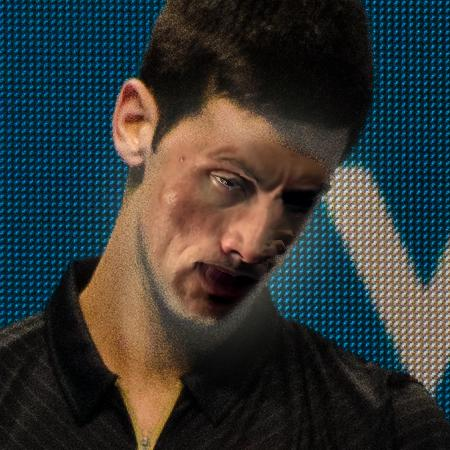
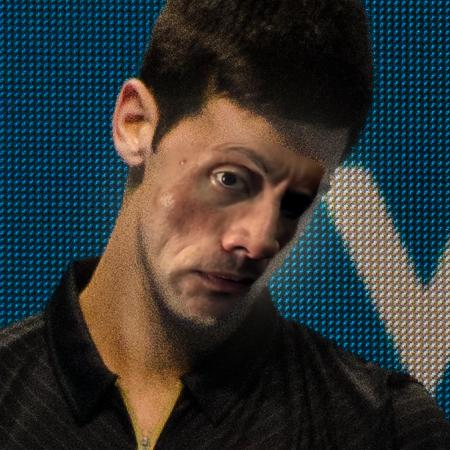
proj2: stretch the Rock's face with one affine fit instead of morphing
A single least-squares affine transform keeps the Rock's features intact.

Changed region(s): [[0.3111, 0.3111, 0.7467, 0.7778], [0.3422, 0.5289, 0.4044, 0.5911], [0.3422, 0.4356, 0.3733, 0.4667]]

diff --git a/docs/proj2/index.html b/docs/proj2/index.html
@@ -17,7 +17,6 @@
   <main>
     <p class="eyebrow">Kevin Chu · Fall 2026</p>
     <h1>Fun with Filters and Frequencies</h1>
-    <p class="lede">Every photo is a mix of two kinds of information: slow changes, like lighting and big shapes, and fast changes, like edges and texture. This whole project is about pulling those two apart and putting them back together in new ways. That gets me edge detection, sharpening, images that change when you step back, and seamless photo blends. I also play a lot of tennis, so Djokovic makes an appearance in the blending section.</p>
 
     <nav class="contents" aria-label="Project sections">
       <a href="#part-1-1">1.1 Convolution</a><a href="#part-1-2">1.2 Edges</a>
@@ -34,32 +33,82 @@
         <p>I wrote it twice. The first version uses four loops: two to visit every output pixel, and two more to walk over the filter. The second version drops the inner two loops and lets NumPy multiply the whole patch at once.</p>
       </div>
       <div class="code-grid">
-        <div><h3>Four loops</h3><pre><code><span class="tok-keyword">for</span> i <span class="tok-keyword">in</span> <span class="tok-fn">range</span>(output_h):
-    <span class="tok-keyword">for</span> j <span class="tok-keyword">in</span> <span class="tok-fn">range</span>(output_w):
-        <span class="tok-keyword">for</span> fi <span class="tok-keyword">in</span> <span class="tok-fn">range</span>(fh):
-            <span class="tok-keyword">for</span> fj <span class="tok-keyword">in</span> <span class="tok-fn">range</span>(fw):
-                output[i, j] += (
-                    padded[i + fi, j + fj]
-                    * <span class="tok-var">flipped</span>[fi, fj]
-                )</code></pre></div>
-        <div><h3>Two loops</h3><pre><code><span class="tok-keyword">for</span> i <span class="tok-keyword">in</span> <span class="tok-fn">range</span>(output_h):
-    <span class="tok-keyword">for</span> j <span class="tok-keyword">in</span> <span class="tok-fn">range</span>(output_w):
-        patch = padded[i:i+fh, j:j+fw]
-        output[i, j] = <span class="tok-fn">np.sum</span>(
-            patch * <span class="tok-var">flipped</span>
-        )</code></pre></div>
+        <div><h3>Four loops</h3><pre><code>def convolve_four_loops(image, filter, mode='same'):
+    flipped_filter = np.flip(np.flip(filter, axis=0), axis=1)
+    image_h, image_w = image.shape
+    fh, fw = flipped_filter.shape
+
+    if mode == 'same':
+        pad_top = fh // 2
+        pad_bottom = (fh - 1) // 2
+        pad_left = fw // 2
+        pad_right = (fw - 1) // 2
+
+    elif mode == 'full':
+        pad_top = pad_bottom = fh - 1
+        pad_left = pad_right = fw - 1
+
+    else:
+        raise ValueError("mode must be 'same' or 'full'")
+
+    padded = np.pad(
+        image,
+        ((pad_top, pad_bottom), (pad_left, pad_right)),
+        mode='constant'
+    )
+
+    output_h = padded.shape[0] - (fh - 1)
+    output_w = padded.shape[1] - (fw - 1)
+    output = np.zeros((output_h, output_w))
+
+    for i in range(output_h):
+        for j in range(output_w):
+            for fi in range(fh):
+                for fj in range(fw):
+                    output[i, j] += (
+                        padded[i + fi, j + fj]
+                        * flipped_filter[fi, fj]
+                    )
+
+    return output</code></pre></div>
+        <div><h3>Two loops</h3><pre><code>def convolve_two_loops(image, filter, mode = 'same'):
+    flipped_filter = np.flip(np.flip(filter, axis=0), axis=1)
+    image_h, image_w = image.shape
+    fh, fw = flipped_filter.shape
+
+    if mode == 'same':
+        pad_top = fh // 2
+        pad_bottom = (fh - 1) // 2
+        pad_left = fw // 2
+        pad_right = (fw - 1) // 2
+
+    elif mode == 'full':
+        pad_top = pad_bottom = fh - 1
+        pad_left = pad_right = fw - 1
+
+    else:
+        raise ValueError("mode must be 'same' or 'full'")
+
+    padded = np.pad(
+        image,
+        ((pad_top, pad_bottom), (pad_left, pad_right)),
+        mode='constant'
+    )
+
+    output_h = padded.shape[0] - (fh - 1)
+    output_w = padded.shape[1] - (fw - 1)
+    output = np.zeros((output_h, output_w))
+
+    for i in range(output_h):
+        for j in range(output_w):
+            patch = padded[i:i+fh, j:j+fw]
+            output[i, j] = np.sum(patch * flipped_filter)
+
+    return output</code></pre></div>
       </div>
       <h3>What happens at the border?</h3>
       <div class="prose">
         <p>Pixels near the edge don't have a full neighborhood, so I pad the image with zeros before sliding the filter. There are two common choices. <code>same</code> pads just enough that the output is the same size as the input. <code>full</code> pads more, so the output keeps every position where the filter overlaps the image at all. With a 9 × 9 filter, that makes it 8 pixels bigger in each direction. Zero padding also darkens the border a little, because the average there includes black pixels that aren't really in the photo.</p>
-        <pre><code><span class="tok-var">flipped</span> = <span class="tok-fn">np.flip</span>(<span class="tok-fn">np.flip</span>(filter, axis=<span class="tok-num">0</span>), axis=<span class="tok-num">1</span>)
-<span class="tok-keyword">if</span> mode == 'same':
-    pad_top, pad_bottom = fh // <span class="tok-num">2</span>, (fh - <span class="tok-num">1</span>) // <span class="tok-num">2</span>
-    pad_left, pad_right = fw // <span class="tok-num">2</span>, (fw - <span class="tok-num">1</span>) // <span class="tok-num">2</span>
-<span class="tok-keyword">elif</span> mode == 'full':
-    pad_top = pad_bottom = fh - <span class="tok-num">1</span>
-    pad_left = pad_right = fw - <span class="tok-num">1</span>
-padded = <span class="tok-fn">np.pad</span>(image, ((pad_top, pad_bottom), (pad_left, pad_right)))</code></pre>
       </div>
       <h3>How fast is it?</h3>
       <div class="prose">
@@ -75,7 +124,7 @@ padded = <span class="tok-fn">np.pad</span>(image, ((pad_top, pad_bottom), (pad_
           </tbody>
         </table>
       </div>
-      <p class="intro">Letting NumPy handle the inner loops helps a lot. SciPy is faster still because its loops run in compiled code instead of Python.</p>
+      <p class="intro">Letting NumPy handle the inner loops helps a lot. SciPy is faster still.</p>
       <h3>Trying it on a photo of me</h3>
       <p class="intro">I ran three filters on a grayscale photo of myself. The box filter is a 9 × 9 grid of 1/81, so every pixel becomes the average of its neighborhood, which blurs. The difference filters, D<sub>x</sub> = [1, 0, −1] and its vertical version D<sub>y</sub>, subtract neighboring pixels. They stay near gray where nothing changes and light up at edges.</p>
       <div class="gallery four">
@@ -143,7 +192,8 @@ padded = <span class="tok-fn">np.pad</span>(image, ((pad_top, pad_bottom), (pad_
         <figure><img src="assets/dog_gradient.jpg" alt="Gradient magnitude with DoG filters" /><figcaption><b>DoG gradient magnitude</b></figcaption></figure>
         <figure><img src="assets/dog_edges.png" alt="Edges with DoG filters" /><figcaption><b>DoG edges</b><span>Identical to "blur first", pixel for pixel</span></figcaption></figure>
       </div>
-      <p class="intro">Same result with one convolution per direction instead of two. That's the whole point of the shortcut.</p>
+      <p class="intro">Same result with one convolution per direction instead of two. This helps save computation.</p>
+      <p class="intro">I checked the unnormalized gradient magnitudes numerically: the largest difference was 1.16 × 10<sup>−15</sup>, and the binary edge maps differed at zero pixels. Both methods use the same symmetric padding and crop back to the original image size, so the comparison also agrees at the boundaries.</p>
     </section>
 
     <!-- ===================== 2.1 ===================== -->
@@ -171,20 +221,36 @@ padded = <span class="tok-fn">np.pad</span>(image, ((pad_top, pad_bottom), (pad_
         <figure class="pick"><img src="assets/taj_sharpened_alpha_1.5.jpg" alt="Taj sharpened with alpha 1.5" /><figcaption><b>α = 1.5 (my pick)</b><span>Crisp, still natural</span></figcaption></figure>
         <figure><img src="assets/taj_sharpened_alpha_3.jpg" alt="Taj sharpened with alpha 3" /><figcaption><b>α = 3</b><span>Halos around the dome</span></figcaption></figure>
       </div>
-      <h3>Can sharpening undo a blur?</h3>
-      <p class="intro">To test this, I took the sharp original, blurred it on purpose, and then sharpened the blurry version. The edges get some of their contrast back, but the fine carving doesn't return. Once a blur averages detail away, that information is gone, and sharpening can only boost what's left.</p>
+      <h3 id="blur-recovery">Can sharpening undo a blur?</h3>
+      <p class="intro">The examples above sharpen the original photo. This is a different test: first I deliberately blur the input, then I apply the unsharp mask to that blurred image. If B = G ∗ I, the result is B + 1.5 · (B − G ∗ B). The original I is kept only for comparison; its detail is never added back into the result. Both Gaussian filters use a 9 × 9 kernel with σ = 2.</p>
       <div class="gallery three">
         <figure><img src="assets/taj_original.jpg" alt="Sharp original Taj" /><figcaption><b>Sharp original</b></figcaption></figure>
         <figure><img src="assets/taj_blurred.jpg" alt="Blurred Taj" /><figcaption><b>Blurred on purpose</b></figcaption></figure>
         <figure><img src="assets/taj_blurred_then_resharpened.jpg" alt="Blurred then sharpened Taj" /><figcaption><b>Then sharpened</b><span>Better than the blurry one, but still softer than the original</span></figcaption></figure>
       </div>
-      <h3>My own example: the Moon</h3>
-      <p class="intro">This full-Moon photo was a little soft, which makes it a good candidate. Sharpening at α = 1.5 brings out the craters and the bright streaks around them. The difference is easier to see up close, so the bottom row is a crop from the middle of the Moon.</p>
+      <p class="intro">The Taj's edges regain contrast, but the small carvings remain softer than in the original. The forest below repeats the same experiment with finer texture. Follow the thin branches and the leaves on the path across the three images: blurring merges nearby details, and sharpening strengthens the remaining edges without separating all those details again.</p>
+      <div class="gallery three">
+        <figure><img src="assets/forest_original.jpg" alt="Original forest path with detailed leaves and tree bark" /><figcaption><b>① Original forest</b><span>Reference detail</span></figcaption></figure>
+        <figure><img src="assets/forest_blurred.jpg" alt="Forest deliberately blurred with a Gaussian" /><figcaption><b>② Blur the original</b><span>9 × 9 Gaussian, σ = 2</span></figcaption></figure>
+        <figure><img src="assets/forest_blurred_then_resharpened.jpg" alt="Previously blurred forest sharpened with an unsharp mask" /><figcaption><b>③ Sharpen the blurred image</b><span>α = 1.5; no original detail added back</span></figcaption></figure>
+      </div>
+      <p class="intro">In both tests, sharper-looking edges are not the same as recovered detail. Unsharp masking boosts the frequencies that remain in the blurred image; it does not invert the blur.</p>
+      <h3 id="moon-sharpening">My own example: the Moon</h3>
+      <p class="intro">For the Moon, I return to sharpening the original photo directly. The blur below supplies the broad light and dark regions. Subtracting it from the original isolates the crater rims and fine surface texture, which I then add back with α = 1.5. Here the blurred image is used to build the detail layer, rather than becoming the input to a recovery experiment.</p>
       <div class="gallery two compare">
         <figure><img src="assets/moon_original.jpg" alt="Original Moon" /><figcaption><b>Before</b></figcaption></figure>
         <figure><img src="assets/moon_sharpened_alpha_1.5.jpg" alt="Sharpened Moon" /><figcaption><b>After</b><span>α = 1.5</span></figcaption></figure>
+      </div>
+      <div class="gallery three steps">
+        <figure><img src="assets/moon_blurred.jpg" alt="Low-frequency Moon from Gaussian smoothing" /><figcaption><b>① Blur the original</b><span>9 × 9 Gaussian, σ = 2</span></figcaption></figure>
+        <figure><img src="assets/moon_high_frequency.jpg" alt="Moon original minus its Gaussian blur" /><figcaption><b>② Original minus blur</b><span>Detail layer; gray represents zero</span></figcaption></figure>
+        <figure><img src="assets/moon_sharpened_alpha_1.5.jpg" alt="Original Moon plus 1.5 times its detail layer" /><figcaption><b>③ Original + 1.5 × detail</b><span>Stronger local contrast</span></figcaption></figure>
+      </div>
+      <p class="intro">These matching crops show how the amount of added detail changes the result. At α = 1.5 the crater rims become more distinct. At α = 3 the same bright and dark edges are amplified further, making the surface look harsher rather than revealing new structures.</p>
+      <div class="gallery three">
         <figure><img src="assets/moon_zoom_original.jpg" alt="Close-up of lunar craters, original" /><figcaption><b>Before (close-up)</b></figcaption></figure>
         <figure><img src="assets/moon_zoom_alpha_1.5.jpg" alt="Close-up of lunar craters, sharpened" /><figcaption><b>After (close-up)</b></figcaption></figure>
+        <figure><img src="assets/moon_zoom_alpha_3.jpg" alt="Same lunar crater crop with stronger sharpening" /><figcaption><b>Stronger sharpening</b><span>α = 3</span></figcaption></figure>
       </div>
     </section>
 
@@ -213,7 +279,7 @@ padded = <span class="tok-fn">np.pad</span>(image, ((pad_top, pad_bottom), (pad_
         <figure><img src="assets/tiger_cat_high_aligned.jpg" alt="Aligned tiger" /><figcaption><b>Tiger</b><span>Cropped</span></figcaption></figure>
         <figure><img src="assets/tiger_cat_low_aligned.jpg" alt="Cat aligned to the tiger" /><figcaption><b>Cat</b><span>Eyes matched to the tiger</span></figcaption></figure>
       </div>
-      <p class="intro"><b>2. Filter them.</b> I keep the tiger's fine detail (original minus a Gaussian blur with σ = 4) and a blurred cat (Gaussian with σ = 10). The σ values set the cutoff. I raised the tiger's cutoff until its stripes, not just its whiskers, came through up close, and raised the cat's blur until the cat's own face stopped showing up close. I also boosted the tiger layer by 1.2× so it wins up close. Then I add the two together.</p>
+      <p class="intro"><b>2. Filter them.</b> I keep the tiger's fine detail (original minus a Gaussian blur with σ = 4) and a blurred cat (Gaussian with σ = 10). A larger σ means a lower frequency cutoff: the blur retains fewer fine details, while subtracting that blur leaves a broader range of detail in the high-pass layer. These settings keep the tiger's stripes as well as its whiskers in the detail layer and suppress the cat's fine facial texture in the blurry layer. I also boost the tiger layer by 1.2× so it is more visible up close. Then I add the two together.</p>
       <div class="gallery three">
         <figure><img src="assets/tiger_cat_high_frequency.jpg" alt="Tiger fine detail layer" /><figcaption><b>Tiger detail</b><span>Gray means zero</span></figcaption></figure>
         <figure><img src="assets/tiger_cat_low_frequency.jpg" alt="Blurred cat" /><figcaption><b>Blurred cat</b></figcaption></figure>
@@ -257,7 +323,7 @@ padded = <span class="tok-fn">np.pad</span>(image, ((pad_top, pad_bottom), (pad_
       </div>
 
       <h3>One that didn't work: frown to smile</h3>
-      <p class="intro">I also tried a face that frowns up close and smiles from far away, using two photos of the same person. It never really switched. The two faces are almost identical except for small changes around the mouth and eyes. Those changes are exactly the fine detail that disappears from far away, so the blurry layer doesn't carry the smile strongly enough. Hybrids need two images whose <em>big shapes</em> are different.</p>
+      <p class="intro">I also tried a face that frowns up close and smiles from far away, using two photos of the same person. With this pair and these filter settings, it never clearly switched. The differences around the mouth and eyes were too subtle in the low-frequency layer to convey the smile from a distance. Expression hybrids can work, but this attempt needed a stronger expression contrast or different alignment and cutoff settings.</p>
       <div class="gallery one">
         <figure><img src="assets/expression_comparison.jpg" alt="Failed frown to smile hybrid with inputs and small views" /><figcaption><b>Frown (detail) + smile (blurry)</b><span>From far away the expression is still ambiguous</span></figcaption></figure>
       </div>
@@ -340,11 +406,11 @@ padded = <span class="tok-fn">np.pad</span>(image, ((pad_top, pad_bottom), (pad_
 
       <h3>Djokovic gives the side-eye</h3>
       <p class="intro">This is a photo of Djokovic checking his racket at the 2014 ATP Finals, blended with the famous meme of the Rock raising one eyebrow. The mask isn't a line. It follows the outline of Djokovic's face.</p>
-      <p class="intro">Lining them up was the hard part. Djokovic is looking down at his racket, and the Rock is looking up and to the side, so no amount of rotating or scaling made the two faces match. There was always a strip of Djokovic's face left over, or the Rock's features landed in the wrong place. So I morphed the Rock's face instead. I found 478 matching points on both faces (eye corners, brows, nose, lips, jawline) with a face-landmark detector, split the face into triangles between those points, and warped each triangle of the Rock's face onto the matching triangle of Djokovic's. The Rock's features end up in the shape and angle of Djokovic's face.</p>
+      <p class="intro">Lining them up was the hard part. Djokovic is looking down and facing the camera more, while the Rock is looking up and turned to the side. Rotating and scaling alone always left a strip of Djokovic's face showing. A full face morph (warping every little triangle of the face separately) lined everything up but made the Rock's face look melted. What worked was one smooth stretch for the whole face. I found 478 matching points on both faces with a face-landmark detector, then fit the single affine transform (rotation, scale, and shear) that moves the Rock's points closest to Djokovic's. The shear squashes and slants the face the way turning and tilting a head does, but it can't bend individual features, so the Rock still looks like the Rock. Points that fit badly, like the jaw on the side the Rock is turned away from, get ignored in the fit.</p>
       <p class="intro">The mask is Djokovic's face outline, shrunk slightly toward the center, with the top of the forehead cut off so the Rock's bald head doesn't paint over Djokovic's hair. The Rock's skin is also paler and lit differently, so before blending I shifted his colors to match the average and spread of Djokovic's skin inside the mask.</p>
       <div class="gallery three">
         <figure><img src="assets/rock_djokovic_image2.jpg" alt="Djokovic checking his racket" /><figcaption><b>Djokovic</b></figcaption></figure>
-        <figure><img src="assets/rock_djokovic_rock.jpg" alt="The Rock raising an eyebrow" /><figcaption><b>The Rock</b><span>Morphed onto Djokovic's face before blending</span></figcaption></figure>
+        <figure><img src="assets/rock_djokovic_rock.jpg" alt="The Rock raising an eyebrow" /><figcaption><b>The Rock</b><span>Stretched onto Djokovic's face before blending</span></figcaption></figure>
         <figure><img src="assets/rock_djokovic_mask.jpg" alt="Face-shaped mask" /><figcaption><b>Mask</b><span>White = the Rock</span></figcaption></figure>
       </div>
       <div class="gallery one compare-single">
@@ -410,6 +476,7 @@ padded = <span class="tok-fn">np.pad</span>(image, ((pad_top, pad_bottom), (pad_
       </div>
     </section>
   </main>
+  <p class="photo-credits">Forest photo: <a href="https://commons.wikimedia.org/wiki/File:Tree_Tunnel_(51536815526).jpg">Tree Tunnel by John Brighenti</a>, <a href="https://creativecommons.org/licenses/by/2.0/">CC BY 2.0</a>. Resized, blurred, and sharpened for the comparison above.</p>
   <footer class="photo-credits">Photos from Wikimedia Commons: <a href="https://commons.wikimedia.org/wiki/File:Portrait_Panthera_tigris_altaica_Leipzig_Zoo_2013.jpg">tiger by Appaloosa</a> (<a href="https://creativecommons.org/licenses/by/3.0/">CC BY 3.0</a>), <a href="https://commons.wikimedia.org/wiki/File:Cat03.jpg">cat by Fir0002</a> (GFDL 1.2), <a href="https://commons.wikimedia.org/wiki/File:Great_Grey_Owl_face.jpg">owl by Lisa Hupp/USFWS</a> and <a href="https://commons.wikimedia.org/wiki/File:Full_Moon_(15984763045).jpg">Moon by NASA Goddard</a> (public domain), <a href="https://commons.wikimedia.org/wiki/File:Red_rose_with_black_background_II.jpg">rose by Laitche</a> (<a href="https://creativecommons.org/licenses/by-sa/4.0/">CC BY-SA 4.0</a>), <a href="https://commons.wikimedia.org/wiki/File:2014-11-12_2014_ATP_World_Tour_Finals_Novak_Djokiov_checking_racket_by_Michael_Frey.jpg">Djokovic by Michael Frey</a> (<a href="https://creativecommons.org/licenses/by-sa/3.0/">CC BY-SA 3.0</a>), <a href="https://commons.wikimedia.org/wiki/File:Crystal_Lake_Reflection_(7726191492).jpg">summer</a> and <a href="https://commons.wikimedia.org/wiki/File:Crystal_Lake_in_the_Winter_(8341261220).jpg">winter Crystal Lake by Alan Stark</a> (<a href="https://creativecommons.org/licenses/by-sa/2.0/">CC BY-SA 2.0</a>), <a href="https://commons.wikimedia.org/wiki/File:Spiral_Galaxy_NGC_3147.png">NGC 3147 by NASA/ESA</a> (public domain), and <a href="https://commons.wikimedia.org/wiki/File:Iris_-_right_eye_of_a_girl.jpg">eye by Laitr Keiows</a> (<a href="https://creativecommons.org/licenses/by-sa/3.0/">CC BY-SA 3.0</a>). The Rock eyebrow image is a meme frame, used here for a class project.</footer>
 </body>
 </html>

diff --git a/docs/proj2/style.css b/docs/proj2/style.css
@@ -41,7 +41,7 @@ h1 { max-width: 850px; margin: 0; font-size: clamp(2.5rem, 7vw, 4.8rem); letter-
   display: flex;
   flex-wrap: wrap;
   gap: 8px;
-  margin: -40px 0 64px;
+  margin: 28px 0 64px;
 }
 
 .contents a {

diff --git a/project2/main.py b/project2/main.py
@@ -540,6 +540,9 @@ derivative_of_gaussian(cameraman, kernel_size=9, sigma=2, threshold=0.28)
 # Part 2.1 results
 taj = skio.imread(data_dir / 'taj.jpg')
 save_sharpening_results(taj, 'taj')
+# Controlled recovery experiment: sharpen only the deliberately blurred forest.
+forest = load_small_image(data_dir / 'downloaded' / 'tree_tunnel.jpg', max_size=960)
+save_sharpening_results(forest, 'forest', alphas=(), save_resharpened=True)
 # The full-moon photo starts out soft, so sharpening visibly brings out craters.
 moon_sharpen = load_small_image(data_dir / 'downloaded' / 'moon.jpg', max_size=960)
 save_sharpening_results(
@@ -627,7 +630,7 @@ save_blend_results(
     summer, winter, season_mask, 'seasons'
 )
 
-# Irregular mask: the Rock's side-eye morphed onto Djokovic checking his racket.
+# Irregular mask: the Rock's side-eye on Djokovic checking his racket.
 # The 478 matching face landmarks were found once with MediaPipe FaceMesh and
 # saved to data/rock_djokovic_landmarks.json. Djokovic's points are in a
 # 1000 x 1000 crop of his photo.
@@ -640,11 +643,15 @@ rock = load_small_image(data_dir / 'downloaded' / 'rock_side_eye.jpg', max_size=
 rock_points = np.array(landmarks['rock'])
 djokovic_points = np.array(landmarks['djokovic'])
 
-# Morph: split the face into triangles between landmarks and warp each Rock
-# triangle onto the matching Djokovic triangle.
-morph = sk.transform.PiecewiseAffineTransform()
-morph.estimate(djokovic_points, rock_points)
-rock_aligned = sk.transform.warp(rock, morph, output_shape=(1000, 1000), mode='edge')
+# One smooth stretch for the whole face: the affine transform (rotate, scale,
+# shear) that best maps the Rock's landmarks onto Djokovic's. Unlike a
+# triangle-by-triangle morph, it can't bend individual features, so the
+# Rock keeps his face. LMEDS ignores points that fit badly, like the jaw on
+# the side the Rock has turned away.
+stretch, _ = cv2.estimateAffine2D(np.float32(rock_points),
+                                  np.float32(djokovic_points), method=cv2.LMEDS)
+rock_aligned = np.clip(cv2.warpAffine(
+    rock, stretch, (1000, 1000), borderMode=cv2.BORDER_REPLICATE), 0, 1)
 
 # Mask: Djokovic's face outline, shrunk a little toward the center, with the
 # top of the forehead cut off so the Rock's bald head doesn't cover the hair.
@@ -657,7 +664,7 @@ rock_mask[:int(rows.min() + 0.08 * (rows.max() - rows.min()))] = 0
 # Skip anything that came from the white border of the meme image.
 rock_face = cv2.erode((rock.min(axis=2) < 0.8).astype(np.float32),
                       np.ones((9, 9), np.uint8))
-rock_mask *= sk.transform.warp(rock_face, morph, output_shape=(1000, 1000)) > 0.5
+rock_mask *= cv2.warpAffine(rock_face, stretch, (1000, 1000)) > 0.5
 
 # The Rock is paler and lit differently. Match the mean and spread of each
 # color channel inside the mask to Djokovic's skin before blending.
@@ -735,4 +742,3 @@ save_blend_results(
     galaxy_eye_image, eye, eye_mask, 'galaxy_eye', save_process=True
 )
 save(galaxy_full, 'galaxy_eye_galaxy.jpg', 'part2_4')
-
